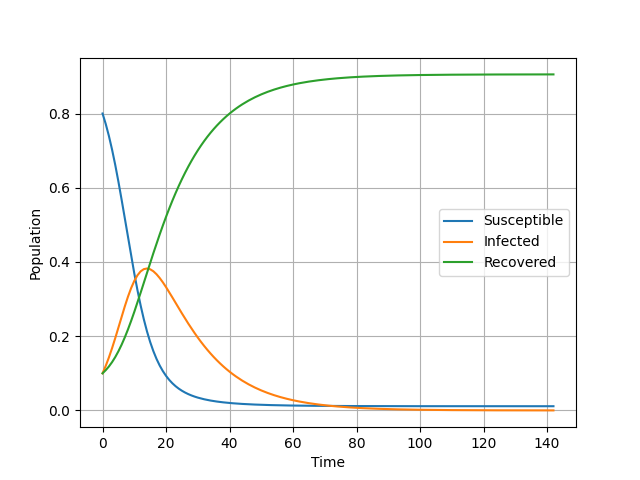
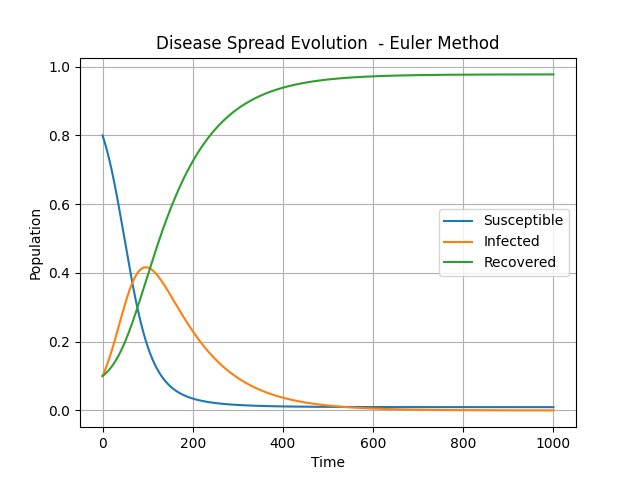
join programs

diff --git a/ex2/main.py b/ex2/main.py
@@ -1,0 +1,135 @@
+import argparse
+import matplotlib.pyplot as plt
+
+
+def initialize(s0, i0, r0):
+    global s, i, r, s_result, i_result, r_result
+    s = s0
+    i = i0
+    r = r0
+    s_result = [s]
+    i_result = [i]
+    r_result = [r]
+
+
+def observe():
+    global s, i, r, s_result, i_result, r_result
+    s_result.append(s)
+    i_result.append(i)
+    r_result.append(r)
+
+
+def update_euler(dt, beta, k):
+    global s, i, r
+    s += -beta * s * i * dt
+    i += (beta * s * i - k * i) * dt
+    r += k * i * dt
+
+
+def k_calculator(s, i, beta, k, dt):
+    k_s = (-beta * s * i) * dt
+    k_i = (beta * s * i - k * i) * dt
+    k_r = (k * i) * dt
+    return k_s, k_i, k_r
+
+
+def update_runge_kutta(dt, beta, k):
+    global s, i, r
+
+    K1_s, K1_i, K1_r = k_calculator(s, i, beta, k, dt)
+    K2_s, K2_i, K2_r = k_calculator(
+        s + 0.5 * K1_s, i + 0.5 * K1_i, beta, k, dt)
+    K3_s, K3_i, K3_r = k_calculator(
+        s + 0.5 * K2_s, i + 0.5 * K2_i, beta, k, dt)
+    K4_s, K4_i, K4_r = k_calculator(s + K3_s, i + K3_i, beta, k, dt)
+
+    s += (K1_s + 2 * K2_s + 2 * K3_s + K4_s) / 6
+    i += (K1_i + 2 * K2_i + 2 * K3_i + K4_i) / 6
+    r += (K1_r + 2 * K2_r + 2 * K3_r + K4_r) / 6
+
+
+def run_simulation(method, dt, beta, k, tfinal, s0, i0, r0):
+    global s, i, r, s_result, i_result, r_result
+    initialize(s0, i0, r0)  # Use passed values for initialization
+    for _ in range(int(tfinal/dt)):
+        if method == 'euler':
+            update_euler(dt, beta, k)
+        elif method == 'runge-kutta':
+            update_runge_kutta(dt, beta, k)
+        observe()
+
+
+def main():
+    parser = argparse.ArgumentParser(
+        description='Simulate infectious disease spread using Euler or Runge-Kutta method')
+    parser.add_argument('--s0', type=float, default=0.99,
+                        help='Initial susceptible population')
+    parser.add_argument('--i0', type=float, default=0.01,
+                        help='Initial infected population')
+    parser.add_argument('--r0', type=float, default=0.0,
+                        help='Initial recovered population')
+    parser.add_argument('--beta', type=float, default=0.3,
+                        help='Infection rate')
+    parser.add_argument('--k', type=float, default=0.1, help='Recovery rate')
+    parser.add_argument('--t', type=float, default=10.0, help='Total time')
+    parser.add_argument('--dt', type=float, default=0.01, help='Time step')
+    parser.add_argument('--f', type=str, default=None,
+                        help='File with variables')
+    parser.add_argument(
+        '--method', type=str, choices=['euler', 'runge-kutta'], default=None, help='Simulation method')
+    parser.add_argument('--h', action='help',
+                        help='Show this help message and exit')
+
+    args = parser.parse_args()
+
+    params = {}
+    if args.f:
+        with open(args.f, 'r') as file:
+            for line in file:
+                key, value = line.strip().split(' = ')
+                params[key] = float(value)
+    else:
+        params['s0'] = args.s0
+        params['i0'] = args.i0
+        params['r0'] = args.r0
+        params['beta'] = args.beta
+        params['k'] = args.k
+        params['tfinal'] = args.t
+        params['dt'] = args.dt
+
+    beta = params['beta']
+    k = params['k']
+    tfinal = params['tfinal']
+    dt = params['dt']
+    s0 = params['s0']
+    i0 = params['i0']
+    r0 = params['r0']
+
+    if args.method:
+        run_simulation(args.method, dt, beta, k, tfinal, s0, i0, r0)
+        plt.plot(s_result, label=f'Susceptible ({args.method})')
+        plt.plot(i_result, label=f'Infected ({args.method})')
+        plt.plot(r_result, label=f'Recovered ({args.method})')
+    else:
+        run_simulation('euler', dt, beta, k, tfinal, s0, i0, r0)
+        plt.plot(s_result, label='Susceptible (Euler)')
+        plt.plot(i_result, label='Infected (Euler)')
+        plt.plot(r_result, label='Recovered (Euler)')
+        s_result.clear()
+        i_result.clear()
+        r_result.clear()
+        run_simulation('runge-kutta', dt, beta, k, tfinal, s0, i0, r0)
+        plt.plot(s_result, label='Susceptible (Runge-Kutta)')
+        plt.plot(i_result, label='Infected (Runge-Kutta)')
+        plt.plot(r_result, label='Recovered (Runge-Kutta)')
+
+    plt.xlabel('Time')
+    plt.ylabel('Population')
+    plt.legend()
+    plt.grid()
+    plt.savefig('results/disease_population_comparison.png')
+    plt.show()
+
+
+if __name__ == '__main__':
+    main()

diff --git a/ex2/euler_disease_population.py b/ex2/euler_disease_population.py
@@ -28,18 +28,25 @@ def update(dt, beta, k):
 
 def main():
     # Initialize the parser
-    parser = argparse.ArgumentParser(description='Euler method for evolution of infectious disease in a population')
+    parser = argparse.ArgumentParser(
+        description='Euler method for evolution of infectious disease in a population')
 
     # Add the parameters positional/optional
-    parser.add_argument('--s0', type=float, default=0.99, help='Initial susceptible population')
-    parser.add_argument('--i0', type=float, default=0.01, help='Initial infected population')
-    parser.add_argument('--r0', type=float, default=0.0, help='Initial recovered population')
-    parser.add_argument('--beta', type=float, default=0.3, help='Infection rate')
+    parser.add_argument('--s0', type=float, default=0.99,
+                        help='Initial susceptible population')
+    parser.add_argument('--i0', type=float, default=0.01,
+                        help='Initial infected population')
+    parser.add_argument('--r0', type=float, default=0.0,
+                        help='Initial recovered population')
+    parser.add_argument('--beta', type=float, default=0.3,
+                        help='Infection rate')
     parser.add_argument('--k', type=float, default=0.1, help='Recovery rate')
     parser.add_argument('--t', type=float, default=10.0, help='Total time')
     parser.add_argument('--dt', type=float, default=0.01, help='Time step')
-    parser.add_argument('--f', type=str, default=None, help='file with variables')
-    parser.add_argument('--h', action='help', help='show this help message and exit')
+    parser.add_argument('--f', type=str, default=None,
+                        help='file with variables')
+    parser.add_argument('--h', action='help',
+                        help='show this help message and exit')
 
     # Parse the arguments
     args = parser.parse_args()
@@ -77,6 +84,7 @@ def main():
     plt.plot(r_result, label='Recovered')
     plt.xlabel('Time')
     plt.ylabel('Population')
+    plt.title('Disease Spread Evolution  - Euler Method')
     plt.legend()
     plt.grid()
     plt.savefig('results/disease_population_euler.png')

diff --git a/ex2/runge_kutta_disease_population.py b/ex2/runge_kutta_disease_population.py
@@ -92,6 +92,7 @@ def main():
     plt.plot(r_result, label='Recovered')
     plt.xlabel('Time')
     plt.ylabel('Population')
+    plt.title('Disease Spread Evolution  - Runge-Kutta Method')
     plt.legend()
     plt.grid()
     plt.savefig('results/disease_population_rungekutta.png')
